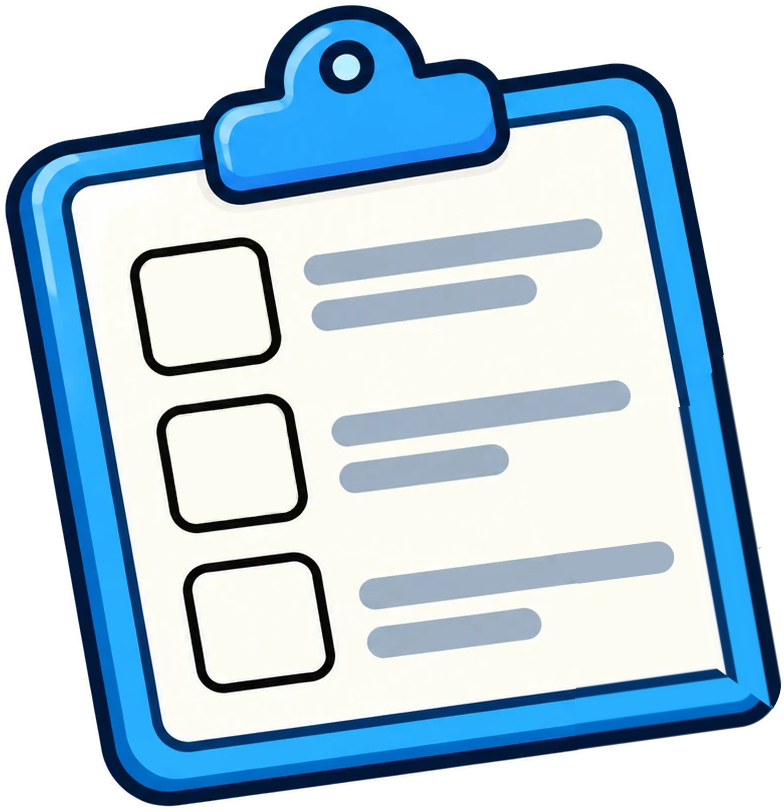
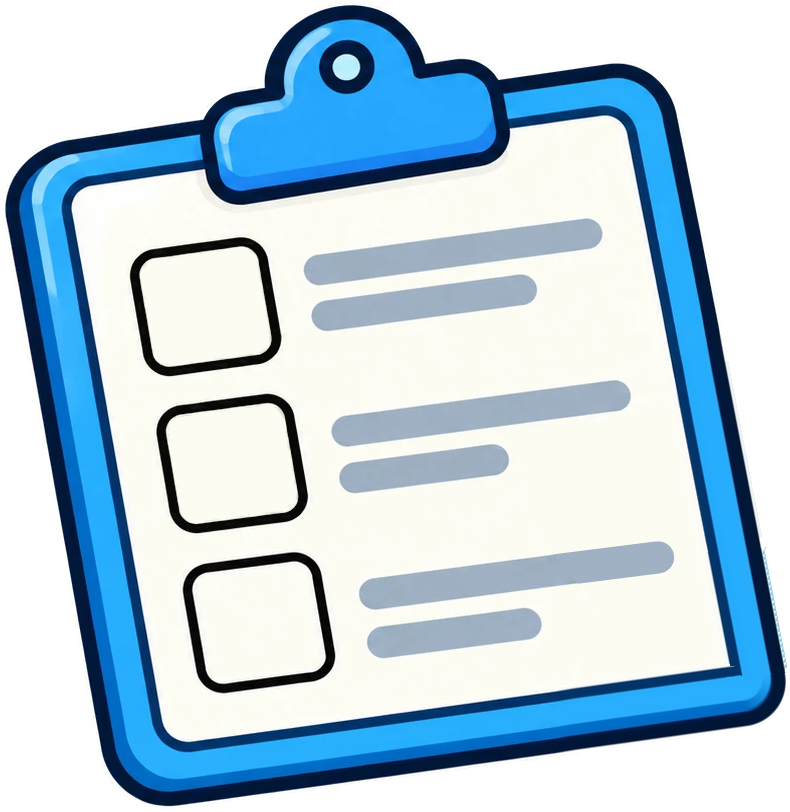
Hiệu ứng Nhiệm vụ: dựng lại mép bảng bị sao che liền mạch (không còn lệch/bậc), vuốt góc trong, nối bóng đổ dưới sao
Claude-Session: https://claude.ai/code/session_01Xqfit1TE88fdJNq9wU4RBg

diff --git a/frontend/src/components/Layout/MissionTransition.jsx b/frontend/src/components/Layout/MissionTransition.jsx
@@ -36,8 +36,8 @@ const weakDevice = () => typeof navigator !== 'undefined' && ((navigator.hardwar
 const FW = 1672;
 const FH = 941;
 const SPR = {
-  'shadow-board': { x: 443, y: 814, w: 483, h: 79 },
-  'board': { x: 341, y: 67, w: 784, h: 812 },
+  'shadow-board': { x: 444, y: 194, w: 691, h: 698 },
+  'board': { x: 341, y: 67, w: 790, h: 812 },
   'ok1': { x: 477, y: 310, w: 139, h: 128 },
   'ck1a': { x: 494, y: 358, w: 48, h: 57 },
   'ck1b': { x: 532, y: 328, w: 63, h: 85 },
